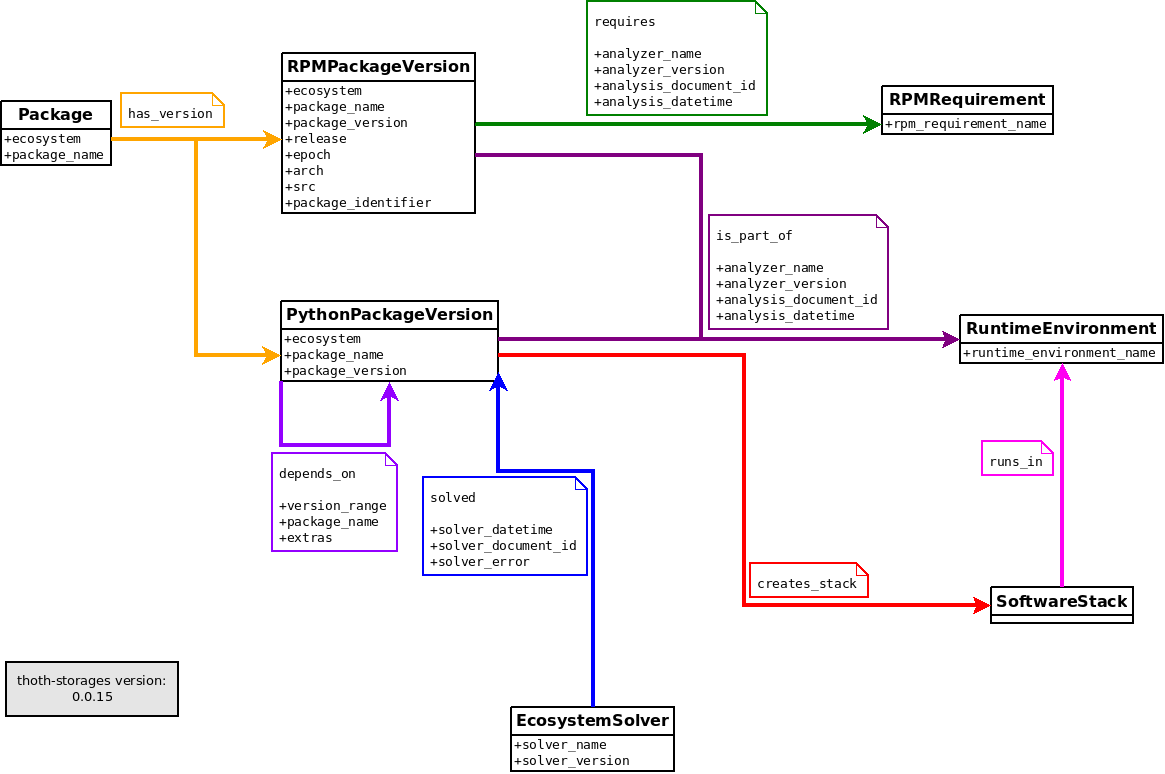
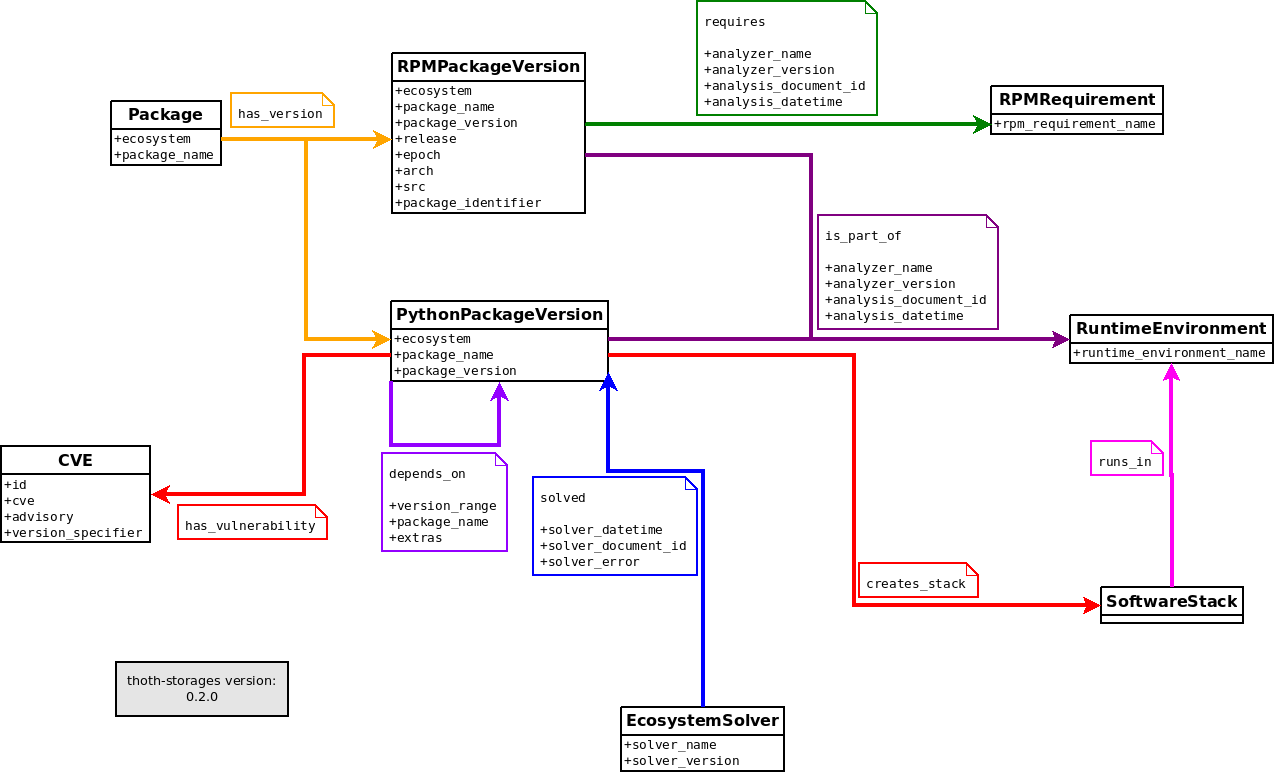
Store information about Python vulnerabilities

diff --git a/thoth/storages/graph/janusgraph.py b/thoth/storages/graph/janusgraph.py
@@ -1,5 +1,4 @@
 #!/usr/bin/env python3
-# -*- coding: utf-8 -*-
 # thoth-storages
 # Copyright(C) 2018 Fridolin Pokorny
 #
@@ -37,17 +36,19 @@ from thoth.common import datetime_str2timestamp
 from ..base import StorageBase
 from ..exceptions import NotFoundError
 from .models import ALL_MODELS
+from .models import CVE
 from .models import DependsOn
 from .models import EcosystemSolver
 from .models import HasVersion
+from .models import HasVulnerability
 from .models import IsPartOf
 from .models import Package
 from .models import PythonPackageVersion
-from .models import Solved
 from .models import Requires
 from .models import RPMPackageVersion
 from .models import RPMRequirement
 from .models import RuntimeEnvironment
+from .models import Solved
 # from .utils import enable_edge_cache
 from .utils import enable_vertex_cache
 
@@ -592,5 +593,48 @@ class GraphDatabase(StorageBase):
                     analyzer_version=document['metadata']['analyzer_version']
                 ).get_or_create(self.g)
             except Exception:  # pylint: disable=broad-exception
-                _LOGGER.exception(
-                    f"Failed to sync Python package, error is not fatal: {python_package_info!r}")
+                _LOGGER.exception(f"Failed to sync Python package, error is not fatal: {python_package_info!r}")
+
+    def create_python_cve_record(self, package_name: str, package_version: str, *,
+                                 record_id: str, version_range: str, advisory: str,
+                                 cve: str = None) -> typing.Tuple[CVE, bool]:
+        """Store information about a CVE in the graph database for the given Python package."""
+        cve_record = CVE.from_properties(
+            cve_id=record_id,
+            version_range=version_range,
+            advisory=advisory,
+            cve_name=cve
+        )
+        cve_record_existed = cve_record.get_or_create(self.g)
+        _LOGGER.debug(
+            "CVE record wit id %r ", record_id, "added" if not cve_record_existed else "was already present"
+        )
+
+        # We explicitly track vulnerable packages (only_if_package_seen=False).
+        python_package, _, python_package_version = self.create_pypi_package_version(
+            package_name,
+            package_version,
+            only_if_package_seen=False
+        )
+
+        has_vulnerability = HasVulnerability.from_properties(source=python_package_version, target=cve_record)
+        has_vulnerability_existed = has_vulnerability.get_or_create(self.g)
+
+        _LOGGER.debug(
+            "CVE record %r for vulnerability of %r in version %r ", record_id, package_name, package_version,
+            "added" if not has_vulnerability_existed else "was already present"
+        )
+        return cve_record, has_vulnerability_existed
+
+    def get_python_cve_records(self, package_name: str, package_version: str) -> typing.List[CVE]:
+        """Get known vulnerabilities for the given package-version."""
+        query = self.g.V() \
+            .has('__label__', 'python_package_version') \
+            .has('package_name', package_name) \
+            .has('package_version', package_version) \
+            .outE() \
+            .has('__label__', 'has_vulnerability') \
+            .inV() \
+            .toList()
+
+        return asyncio.get_event_loop().run_until_complete(query)

diff --git a/thoth/storages/graph/models.py b/thoth/storages/graph/models.py
@@ -57,6 +57,15 @@ class RPMPackageVersion(PackageVersionBase):
     package_identifier = VertexProperty(properties.String)
 
 
+class CVE(VertexBase):
+    """Information about a CVE."""
+
+    advisory = VertexProperty(properties.String)
+    cve_name = VertexProperty(properties.String, default=None)
+    cve_id = VertexProperty(properties.String)
+    version_range = VertexProperty(properties.String)
+
+
 class PythonPackageVersion(PackageVersionBase):
     """Python package version vertex."""
 
@@ -127,11 +136,17 @@ class RunsIn(EdgeBase):
     """The given software stack runs in a runtime environment."""
 
 
+class HasVulnerability(EdgeBase):
+    """The given package-v version has a vulnerability."""
+
+
 ALL_MODELS = frozenset((
     CreatesStack,
+    CVE,
     DependsOn,
     EcosystemSolver,
     HasVersion,
+    HasVulnerability,
     IsPartOf,
     Package,
     PythonPackageVersion,
